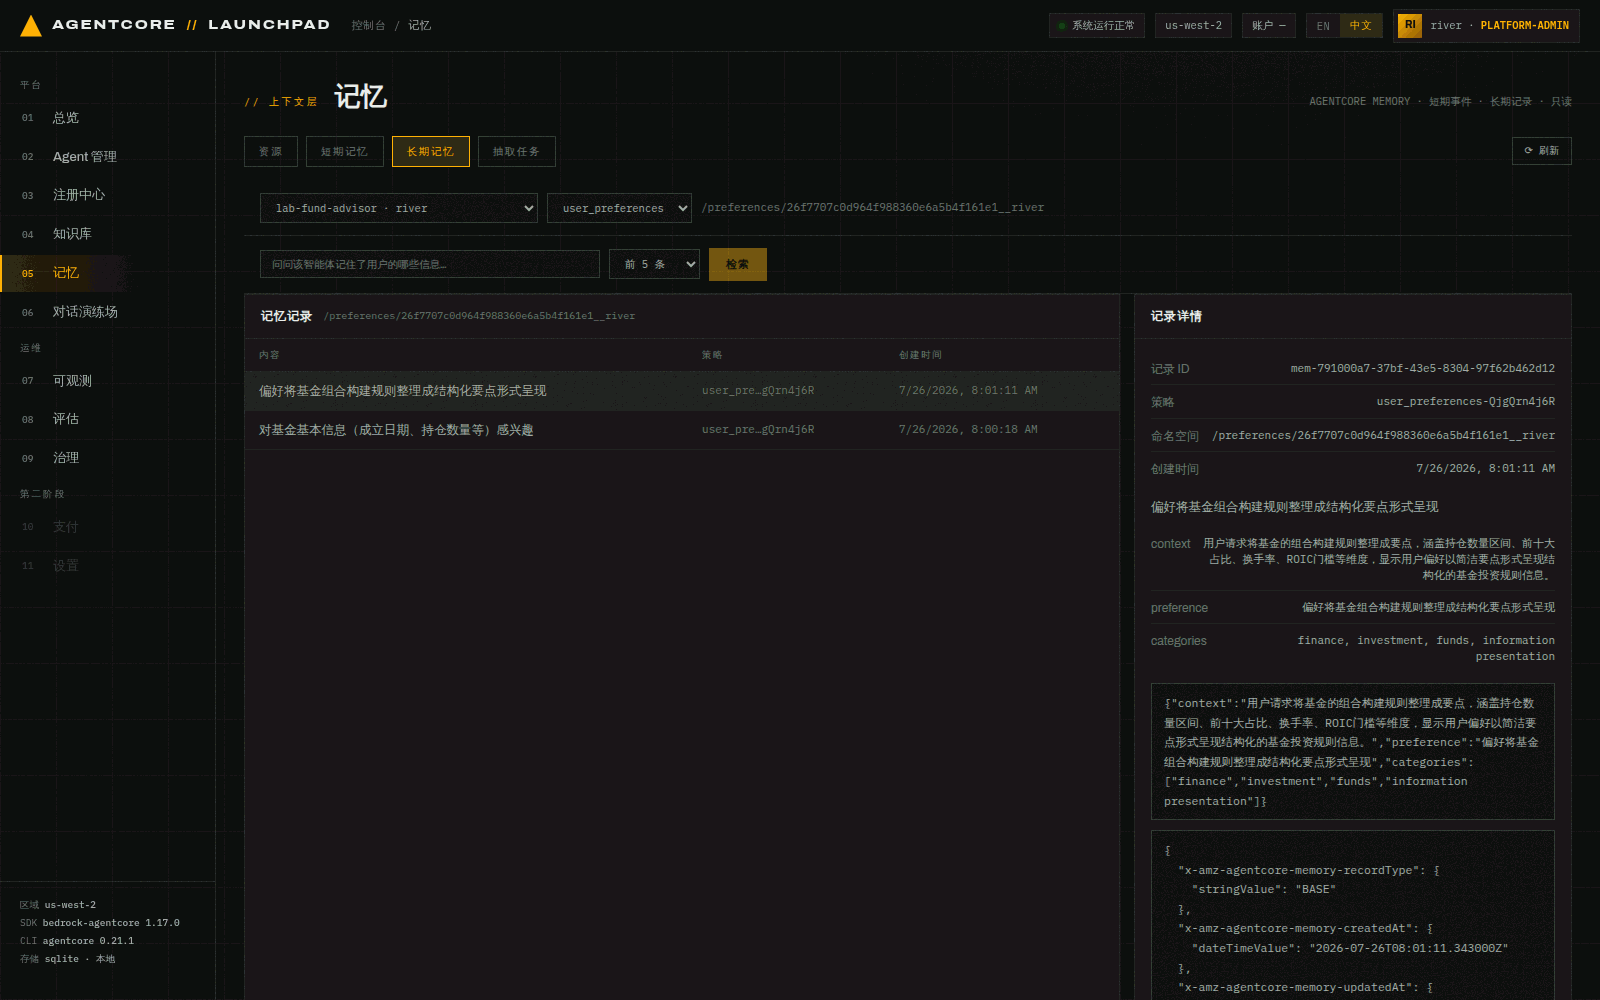
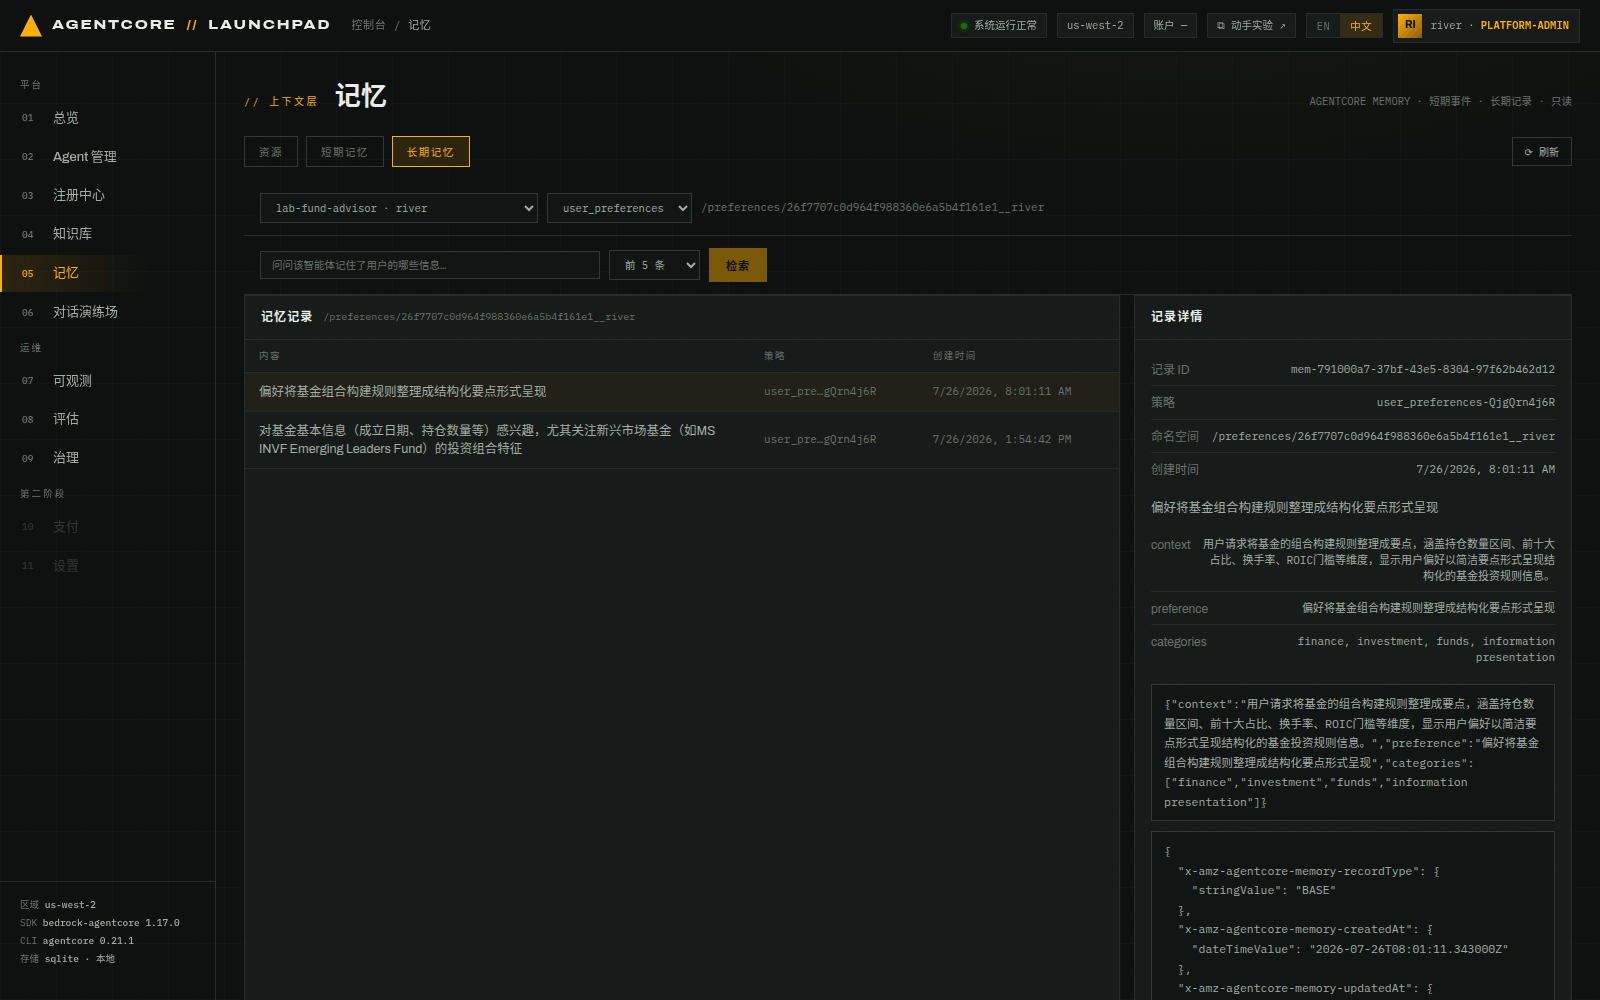
refactor(memory): drop the extraction-jobs tab from the console
Extraction is a job the AgentCore Memory service runs itself, asynchronously,
from the strategies on the resource — the platform never starts one. And
ListMemoryExtractionJobs is not a job history: its status enum (and every
returned job.status) is FAILED only, so it lists just the retry backlog
StartMemoryExtractionJob would pick up. A healthy resource answers with an
empty list, which as a tab reads "nothing was ever extracted".

So the tab is gone; GET /api/memory/extraction-jobs stays for debugging.
The spec claim that "jobs of every status appear in the unfiltered listing"
was wrong and is corrected, as are the architecture/api/lab passages that
told operators to check the tab. The three memory screenshots that showed
the tab were re-captured against the live console.

diff --git a/frontend/src/pages/Memory.tsx b/frontend/src/pages/Memory.tsx
@@ -5,12 +5,11 @@ import { useSearchParams } from "react-router-dom";
 import { Panel, useToast, ViewHead } from "../components";
 import type { MemoryOverview } from "../lib/api";
 import { api } from "../lib/api";
-import { ExtractionTab } from "./memory/ExtractionTab";
 import { LongTermTab } from "./memory/LongTermTab";
 import { OverviewTab } from "./memory/OverviewTab";
 import { ShortTermTab } from "./memory/ShortTermTab";
 
-const VIEWS = ["overview", "short-term", "long-term", "extraction"] as const;
+const VIEWS = ["overview", "short-term", "long-term"] as const;
 type ViewKey = (typeof VIEWS)[number];
 
 /**
@@ -132,7 +131,7 @@ export function Memory() {
   }
 
   // Before `make bootstrap` there is no memory resource to visualize at all —
-  // say so once instead of letting four tabs each fail their own way.
+  // say so once instead of letting all three tabs fail their own way.
   if (overview && !overview.configured) {
     return (
       <section>
@@ -183,13 +182,6 @@ export function Memory() {
           strategyId={strategy}
           onSelectActor={selectActor}
           onSelectStrategy={selectStrategy}
-        />
-      )}
-      {overview && view === "extraction" && (
-        <ExtractionTab
-          strategies={overview.strategies}
-          actorId={actor}
-          sessionId={session}
         />
       )}
     </section>

diff --git a/frontend/src/lib/api.ts b/frontend/src/lib/api.ts
@@ -766,16 +766,6 @@ export interface MemoryRecord {
   metadata: Record<string, unknown>;
 }
 
-export interface MemoryExtractionJob {
-  job_id: string | null;
-  status: string | null;
-  failure_reason: string | null;
-  strategy_id: string | null;
-  actor_id: string | null;
-  session_id: string | null;
-  messages: string[];
-}
-
 export interface MemoryPage<T> {
   items: T[];
   next_token: string | null;
@@ -1303,18 +1293,9 @@ export const api = {
       method: "POST",
       body: JSON.stringify(input),
     }),
-  memoryExtractionJobs: (
-    filters: {
-      actor_id?: string;
-      session_id?: string;
-      strategy_id?: string;
-      status?: string;
-    },
-    nextToken?: string | null,
-  ) =>
-    request<MemoryPage<MemoryExtractionJob>>(
-      `/api/memory/extraction-jobs${memoryQuery({ ...filters, next_token: nextToken })}`,
-    ),
+  // NOTE: `GET /api/memory/extraction-jobs` exists on the backend but is not
+  // surfaced in the console — the AWS list only ever returns FAILED jobs
+  // (retry backlog), which reads as "nothing extracted" to an operator.
   obsDashboard: (range: string, force = false) =>
     request<ObsDashboard>(`/api/observability/dashboard?${obsQuery(range, force)}`),
   obsTraces: (range: string, force = false) =>

diff --git a/frontend/src/pages/memory/format.ts b/frontend/src/pages/memory/format.ts
@@ -31,7 +31,7 @@ export function shortId(value: string | null | undefined, keep = 12): string {
   return value.length <= keep * 2 + 1 ? value : `${value.slice(0, keep)}…${value.slice(-keep)}`;
 }
 
-/** Status → Chip tone. Covers memory/strategy status and extraction-job status. */
+/** Status → Chip tone. Covers memory resource and strategy status. */
 export function statusTone(
   status: string | null | undefined,
 ): "good" | "warn" | "crit" | "muted" {

diff --git a/docs/lab/05-chat-memory.md b/docs/lab/05-chat-memory.md
@@ -113,8 +113,8 @@ Agent 用「它」指代上一轮的基金，答出：目标持仓 25–40 只 /
 
 ## 5.4 Memory 控制台：资源概览
 
-**打开** `05 记忆`。这个控制台是**只读**的（后端根本没有实现写操作的包装函数），四个标签页：
-`资源` / `短期记忆` / `长期记忆` / `抽取任务`。
+**打开** `05 记忆`。这个控制台是**只读**的（后端根本没有实现写操作的包装函数），三个标签页：
+`资源` / `短期记忆` / `长期记忆`。
 
 ![记忆资源概览](images/05-memory-overview.png)
 *图 5-4：平台共享的 `launchpad_memory-hurAGN3EnF`：事件过期 30 天、AWS 托管密钥、执行角色，
@@ -148,7 +148,7 @@ Agent 用「它」指代上一轮的基金，答出：目标持仓 25–40 只 /
 
 ![长期记忆记录](images/05-memory-longterm.png)
 *图 5-6：命名空间被服务端解析成具体值 `/preferences/26f7707c0d964f988360e6a5b4f161e1__river`，
-两条偏好记录来自刚才的两轮对话。右侧记录详情展开了结构化内容。*
+两条偏好记录都是服务端从与这个 Agent 的对话里抽取出来的。右侧记录详情展开了结构化内容。*
 
 本次实际抽取到的一条记录：
 
@@ -166,8 +166,14 @@ Agent 用「它」指代上一轮的基金，答出：目标持仓 25–40 只 /
 > `USER_PREFERENCE` / `SUMMARIZATION` 存上面这种 JSON 对象。控制台与对话页共用同一个解码函数，
 > 所以两边都不会把序列化对象直接糊在界面上。
 
-**`抽取任务` 标签**的用处很具体：当你看到「短期事件有了，但长期记录还是 0」时，去这里按
-参与者/会话/策略筛选，就能区分「抽取还没跑完」和「抽取失败了」。
+**关于「抽取」**：把短期事件变成长期记录的抽取任务是 **AgentCore Memory 服务自己跑的**，
+按资源上配置的策略在事件写入后**异步**执行，平台既不触发也不排程。所以看到「短期事件有了、
+长期记录还是 0」时，正常做法就是再聊 1–2 轮、等一会儿再刷新，而不是去找什么按钮。
+
+> 控制台**没有**抽取任务视图。AWS 的 `ListMemoryExtractionJobs` 不是任务历史：它的状态枚举
+> 只有 `FAILED` 一个值，列出的是可被 `StartMemoryExtractionJob` 重试的失败积压，健康资源查出来
+> 永远是空的——做成一个标签页只会让人误以为「什么都没抽取出来」。需要排查时用后端接口
+> `GET /api/memory/extraction-jobs`。
 
 ---
 
@@ -186,7 +192,7 @@ Agent 用「它」指代上一轮的基金，答出：目标持仓 25–40 只 /
 
 | 现象 | 原因 | 处理 |
 |---|---|---|
-| 长期记录一直是 0 | 抽取是异步的，且需要足够语义信息 | 多聊 1–2 轮，再看 `抽取任务` 标签的状态 |
+| 长期记录一直是 0 | 服务侧抽取是异步的，且需要足够语义信息 | 多聊 1–2 轮，等一会儿再刷新 `长期记忆` 标签 |
 | 追踪面板长时间「暂无 SPAN」 | Transaction Search 摄取延迟约 1 分钟起 | 等一会点 `⟳ 加载链路`；第 07 章统一看 |
 | 重新发布后行为没变 | 已有会话被钉在旧版本 | 点 `新会话` 再验证 |
 | 容器 Agent 调用报 `RuntimeClientError` | 修复前的依赖漂移缺陷，见下 | **已修复**；若仍出现请确认代码是最新的 |

diff --git a/.trellis/spec/launchpad/memory-console.md b/.trellis/spec/launchpad/memory-console.md
@@ -163,23 +163,27 @@ switching tabs does not refetch.
 >    value less than or equal to 50`). The shared `PAGE_MAX = 100` therefore
 >    502s **every** request to that operation — hence `EXTRACTION_PAGE_MAX = 50`.
 > 2. Its `filter.status` enum accepts **only** `FAILED`
->    (`Member must satisfy enum value set: [FAILED]`). Offering `SUCCEEDED` /
->    `IN_PROGRESS` in a picker produces a guaranteed 502. Jobs of every status
->    still appear in the *unfiltered* listing — you just cannot filter *for*
->    them, and the UI must say so.
+>    (`Member must satisfy enum value set: [FAILED]`), and so does the returned
+>    `job.status`. The operation is documented as listing jobs "eligible to be
+>    started", i.e. the retry backlog `StartMemoryExtractionJob` would pick up —
+>    it is **not** a job history, so successful and in-flight extractions never
+>    appear. An account with populated long-term records legitimately returns
+>    zero jobs; treat an empty list as "nothing failed", never as "extraction
+>    never ran".
 >
-> Extraction jobs are also **transient**: an account with populated long-term
-> records can legitimately return zero jobs. Treat an empty job list as "none
-> retained", never as "extraction never ran".
+> Because of (2) the console has **no extraction view**: extraction is a job the
+> Memory service runs itself from the configured strategies, and a permanently
+> empty FAILED-only table reads to an operator as "nothing was ever extracted".
+> `GET /api/memory/extraction-jobs` stays available for debugging.
 
 ### 5. Good/Base/Bad Cases
 
 - **Good** — `/records?actor_id=<agent>__river&strategy_id=semantic_facts-…`
   resolves `/facts/<agent>__river`, lists records, and `POST /records/search`
   returns the same shape with `score` populated and ranked.
-- **Base** — a session has events but no records yet (extraction is
-  asynchronous). The long-term view must render the "extraction pending — check
-  the extraction tab" empty state, not an "empty memory" state.
+- **Base** — a session has events but no records yet (service-side extraction is
+  asynchronous). The long-term view must render the "extraction pending — give it
+  a moment" empty state, not an "empty memory" state.
 - **Bad** — `?status=SUCCEEDED` → typed 400 before any AWS call;
   `?actor_id=` (empty) → the key is omitted from the AWS `filter` dict entirely,
   because the preview API rejects empty strings inside `filter`.

diff --git a/.trellis/spec/launchpad/index.md b/.trellis/spec/launchpad/index.md
@@ -10,7 +10,7 @@
 | [Registry Skill Ingestion](./registry-skill-ingestion.md) | Multi-source skill pipeline: SkillBundle, inspect→import staging, git/url acquirers, reimport, record update (PUT) + register/edit sub-pages | Active |
 | [Container Capabilities + Filesystem](./container-capabilities-filesystem.md) | Claude Agent SDK (container) method: registry MCP/skill wiring, attach-without-record skill sources (/api/agent-skills), filesystemConfigurations (session/S3 Files/EFS) + VPC + IAM inline policy | Active |
 | [Claude SDK AgentCore Memory](./claude-sdk-agentcore-memory.md) | Request-local MemorySessionManager, automatic short-/long-term restore hook, exactly-once turn persistence, and shared runtime environment injection | Active |
-| [Memory Console](./memory-console.md) | Read-only `/api/memory` projections: structural read-only guarantee, first-separator actor decode + batched name join, server-side `{actorId}` namespace resolution, harness message-envelope decoding (tool turns kept), and the two live-only preview bounds (`ListMemoryExtractionJobs` maxResults ≤ 50, status enum = `FAILED` only) | Active |
+| [Memory Console](./memory-console.md) | Read-only `/api/memory` projections: structural read-only guarantee, first-separator actor decode + batched name join, server-side `{actorId}` namespace resolution, harness message-envelope decoding (tool turns kept), and the two live-only preview bounds (`ListMemoryExtractionJobs` maxResults ≤ 50, status enum = `FAILED` only — why extraction has no console view) | Active |
 | [Claude SDK Runtime Invocation](./claude-sdk-runtime-invocation.md) | Native Claude partial-event streaming, Runtime SSE normalization, sync compatibility, read timeout, and republish requirement | Active |
 | [Evaluation Agent Eligibility](./evaluation-agent-eligibility.md) | Which methods are eval-supported + telemetry resolution: harness span identity (harness_{name}.DEFAULT, strands scope), backing-runtime log-group prefix discovery, InvokeHarness dispatch | Active |
 | [Evaluation Cloud Dataset Runs](./evaluation-cloud-dataset-runs.md) | AWS cloud datasets + simulated personas as run scopes: ListDatasetExamples-driven execution (no AWS-side dataset source), SDK LLM-actor simulation w/ per-run actor_model_id, cloud: scope encoding, lazy GT detail endpoint | Active |

diff --git a/docs/architecture.md b/docs/architecture.md
@@ -195,7 +195,15 @@ exists in either file, and `tests/test_memory_console.py` asserts that.
 | `overview` | resource config (id/arn/status/event expiry/KMS/execution role), each long-term strategy with its `namespaces` + `namespaceTemplates`, and the account's other memory resources with the platform singleton marked | `GetMemory`, `ListMemories`, `ListActors` |
 | `short-term` | actor → session → event drill-down; events render as a timeline of conversational role/text turns, blob payloads as a byte count only | `ListActors`, `ListSessions`, `ListEvents` |
 | `long-term` | records for a resolved namespace, plus semantic retrieval with relevance scores | `ListMemoryRecords`, `RetrieveMemoryRecords` |
-| `extraction` | extraction-job table filtered by actor/session/strategy/status — the only place where "events written but no records yet" is distinguishable from a failed extraction | `ListMemoryExtractionJobs` |
+
+**Extraction is not a console surface.** Turning short-term events into long-term
+records is a job the AgentCore Memory service runs itself, asynchronously, from the
+strategies configured on the resource — the platform never starts one.
+`ListMemoryExtractionJobs` is not a job history either: its `status` enum has exactly
+one value (`FAILED`), so it lists only the retry-eligible backlog that
+`StartMemoryExtractionJob` would pick up, and a healthy resource answers with an empty
+list. Showing that as a tab read as "nothing was ever extracted", so the console
+dropped it; `GET /api/memory/extraction-jobs` remains available for debugging.
 
 Two projections carry the load. **Actor decoding:** AWS returns the compound
 `<agent_id>__<human>` that `scoped_actor` builds, so `/actors` splits on the

diff --git a/docs/architecture.zh-CN.md b/docs/architecture.zh-CN.md
@@ -131,7 +131,12 @@ public  /v1  ──┘        │
 | `overview` | 资源配置(id/arn/状态/事件过期/KMS/执行角色)、每条长期策略及其 `namespaces` + `namespaceTemplates`、以及账号内其他记忆资源(标出平台单例) | `GetMemory`、`ListMemories`、`ListActors` |
 | `short-term` | actor → session → event 三级下钻;事件以时间轴呈现对话轮次的角色/文本,blob 载荷只显示字节数 | `ListActors`、`ListSessions`、`ListEvents` |
 | `long-term` | 解析出的命名空间下的记录,以及带相关度评分的语义检索 | `ListMemoryRecords`、`RetrieveMemoryRecords` |
-| `extraction` | 按 actor/session/策略/状态过滤的抽取任务表 —— 只有这里能区分「事件已写入但记录尚未生成」与「抽取失败」 | `ListMemoryExtractionJobs` |
+
+**抽取不作为控制台视图**。把短期事件变成长期记录是 AgentCore Memory 服务**自己**按资源上
+配置的策略异步跑的任务,平台从不触发。`ListMemoryExtractionJobs` 也不是任务历史:它的
+`status` 枚举只有一个值(`FAILED`),因此列出的只是 `StartMemoryExtractionJob` 会去重试的
+失败积压,健康资源返回空列表。把它做成一个标签页会被读成「什么都没抽取出来」,所以控制台
+已移除该视图;`GET /api/memory/extraction-jobs` 仍保留用于排查。
 
 两处投影承担了主要工作。**actor 解码:** AWS 返回的是 `scoped_actor` 构造的复合
 `<agent_id>__<human>`,因此 `/actors` 按首个 `__` 拆分,并每页一次批量查询台账

diff --git a/docs/api.md b/docs/api.md
@@ -140,7 +140,7 @@ resource. See [architecture.md](architecture.md#the-memory-console-console-05).
 | `GET` | `/api/memory/namespaces?actor_id=` | Strategy namespace templates with `{actorId}` substituted, plus a `resolvable` flag |
 | `GET` | `/api/memory/records?actor_id=&strategy_id=` or `?namespace=` | Long-term records for the resolved namespace |
 | `POST` | `/api/memory/records/search` | Semantic retrieval (`{query, actor_id, strategy_id?, namespace?, top_k}`) with relevance scores |
-| `GET` | `/api/memory/extraction-jobs` | Extraction jobs, filterable by `actor_id`/`session_id`/`strategy_id`/`status` |
+| `GET` | `/api/memory/extraction-jobs` | Failed (retry-eligible) extraction jobs, filterable by `actor_id`/`session_id`/`strategy_id`/`status` — **not surfaced in the console**; AWS's `status` enum is `FAILED` only, so a healthy resource returns an empty list |
 
 Every list route accepts and returns `next_token` (AWS pages at 100 items) and
 accepts `max_results` (clamped to 100) — nothing is capped silently. Namespace
